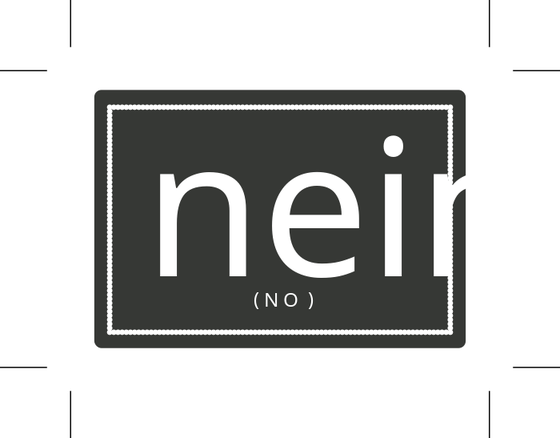
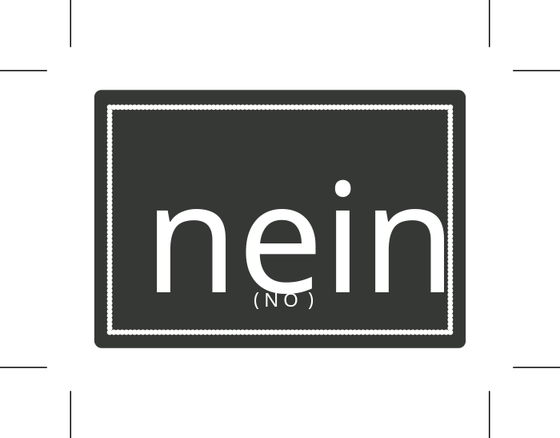
Fix clipped nein ballot + official card backs + phone flip-to-reveal
ballot-nein.png re-rendered from ballot.cards(nein).svg at 80% wordmark:
the SVG's Germania/Futura fonts are missing server-side, so the fallback
sans overflowed the card edge (ja! fit by luck at the same metrics).

New official reverses from the same Li rebuild (same render pipeline):
back-ballot.png (ballot.card.backcover) and back-tile.png
(policy.cards.backcover); roles reuse back-role.png.

Phones now flip to reveal: role starts facedown (team hidden until tap),
ballots flip facedown as the vote is played, policies start facedown
with tap-to-peek then tap-to-act; investigate result auto-flips.
Reduced-motion falls back to instant swaps. Board logic untouched.

Changed region(s): [[0.2732, 0.3858, 0.85, 0.6826], [0.6679, 0.2968, 0.7286, 0.3562]]

diff --git a/public/js/play.js b/public/js/play.js
@@ -15,6 +15,10 @@ let currentPlayers = {};
 let myRole = null;
 let myTeammates = [];
 let renderedForRound = {}; // avoid re-rendering the same one-shot UI repeatedly
+let roleRevealed = false; // tap-to-reveal: role starts facedown each session
+let revealedCards = {}; // "roundId:idx" / "peek:roundId:idx" -> true once flipped face-up
+const REDUCED_MOTION = typeof matchMedia === 'function' && matchMedia('(prefers-reduced-motion: reduce)').matches;
+const FLIP_MS = REDUCED_MOTION ? 0 : 550;
 
 async function main() {
   const user = await ensureSignedIn();
@@ -138,12 +142,30 @@ function render() {
 
 function renderIdle() {
   const roleLabel = myRole === 'hitler' ? 'Hitler' : myRole[0].toUpperCase() + myRole.slice(1);
+  const whosTurn = describeWhosTurn();
+  const roleImg = myRole === 'hitler' ? 'role-hitler' : `role-${myRole}`;
+  if (!roleRevealed) {
+    // Genuine reveal: back first (shoulder-surf safe), tap to flip. Team stays hidden until then.
+    el('main').innerHTML = `
+      <div class="flip-scene center tappable" id="roleScene">
+        <div class="flip-inner flipped" id="roleFlip">
+          <img class="role-img flip-face" src="img/${roleImg}.png" alt="${roleLabel}" />
+          <img class="role-img flip-face flip-back" src="img/back-role.png" alt="Your secret role — tap to reveal" />
+        </div>
+      </div>
+      <p class="role-caption">Tap to reveal your role</p>
+      <p>${whosTurn}</p>
+    `;
+    el('roleScene').addEventListener('click', () => {
+      el('roleFlip').classList.remove('flipped');
+      setTimeout(() => { roleRevealed = true; render(); }, FLIP_MS);
+    });
+    return;
+  }
   let teamHtml = '';
   if (myTeammates.length) {
     teamHtml = `<p class="muted">Your team: ${myTeammates.map(t => escapeHtml(t.name)).join(', ')}</p>`;
   }
-  const whosTurn = describeWhosTurn();
-  const roleImg = myRole === 'hitler' ? 'role-hitler' : `role-${myRole}`;
   el('main').innerHTML = `
     <img class="role-img" src="img/${roleImg}.png" alt="${roleLabel}" />
     <p class="role-caption">${roleLabel}</p>
@@ -200,8 +222,14 @@ function renderVoting() {
   el('main').innerHTML = `
     <h2>${nameOf(currentMeta.presidentUid)} nominates ${nameOf(currentMeta.chancellorCandidateUid)}</h2>
     <div class="vote-buttons">
-      <button class="ballot ja" id="jaBtn"><img src="img/ballot-ja.png" alt="Ja!" /></button>
-      <button class="ballot nein" id="neinBtn"><img src="img/ballot-nein.png" alt="Nein!" /></button>
+      <button class="ballot ja" id="jaBtn"><div class="flip-scene"><div class="flip-inner" id="jaFlip">
+        <img src="img/ballot-ja.png" alt="Ja!" class="flip-face" />
+        <img src="img/back-ballot.png" alt="" class="flip-face flip-back" />
+      </div></div></button>
+      <button class="ballot nein" id="neinBtn"><div class="flip-scene"><div class="flip-inner" id="neinFlip">
+        <img src="img/ballot-nein.png" alt="Nein!" class="flip-face" />
+        <img src="img/back-ballot.png" alt="" class="flip-face flip-back" />
+      </div></div></button>
     </div>
   `;
   const castVote = async choice => {
@@ -212,8 +240,15 @@ function renderVoting() {
     renderedForRound[key] = true;
     render();
   };
-  el('jaBtn').addEventListener('click', () => castVote('ja'));
-  el('neinBtn').addEventListener('click', () => castVote('nein'));
+  // Play the card facedown with a flip, then record the vote when it lands.
+  const playBallot = (choice, flipId, otherBtnId) => {
+    const other = el(otherBtnId);
+    if (other) other.setAttribute('disabled', '');
+    el(flipId).classList.add('flipped');
+    setTimeout(() => castVote(choice), FLIP_MS);
+  };
+  el('jaBtn').addEventListener('click', () => playBallot('ja', 'jaFlip', 'neinBtn'));
+  el('neinBtn').addEventListener('click', () => playBallot('nein', 'neinFlip', 'jaBtn'));
 }
 
 function tileArray(v) {
@@ -245,13 +280,14 @@ async function renderPresidentDraw() {
   }
   el('main').innerHTML = `
     <h2>Discard one policy</h2>
-    <p class="muted">The remaining two go to the Chancellor.</p>
+    <p class="muted">Tap a card to peek, tap again to discard it. The remaining two go to the Chancellor.</p>
     <div class="policy-choice">
-      ${tiles.map((t, i) => `<img class="policy-tile policy-tile-img" src="img/tile-${t}.png" alt="${t} policy" data-idx="${i}" />`).join('')}
+      ${tiles.map((t, i) => policyFlipTile(t, i, roundId)).join('')}
     </div>
   `;
   document.querySelectorAll('.policy-tile').forEach(elm => {
     elm.addEventListener('click', async () => {
+      if (!revealPolicyTile(elm, roundId)) return; // first tap just reveals
       const idx = Number(elm.dataset.idx);
       const discarded = tiles[idx];
       const remaining = tiles.filter((_, i) => i !== idx);
@@ -269,6 +305,28 @@ async function renderPresidentDraw() {
 function tileImg(t, i) {
   const idx = i === undefined ? '' : ` data-idx="${i}"`;
   return `<img class="policy-tile policy-tile-img" src="img/tile-${escapeHtml(t)}.png" alt="${escapeHtml(t)} policy"${idx} />`;
+}
+
+// Facedown policy card for tap-to-reveal. First tap flips it face-up (recorded
+// in revealedCards so re-renders keep it up); the caller's second tap acts.
+function policyFlipTile(t, i, revealKey) {
+  const revealed = revealedCards[`${revealKey}:${i}`] ? '' : ' flipped';
+  const idx = i === undefined ? '' : ` data-idx="${i}"`;
+  return `<div class="policy-tile flip-scene tappable"${idx}>
+    <div class="flip-inner${revealed}">
+      <img class="policy-tile-img flip-face" src="img/tile-${escapeHtml(t)}.png" alt="${escapeHtml(t)} policy" />
+      <img class="policy-tile-img flip-face flip-back" src="img/back-tile.png" alt="Facedown policy — tap to peek" />
+    </div>
+  </div>`;
+}
+
+function revealPolicyTile(elm, revealKey) {
+  const key = `${revealKey}:${elm.dataset.idx}`;
+  if (revealedCards[key]) return true; // already face-up: caller should act
+  revealedCards[key] = true;
+  const inner = elm.querySelector('.flip-inner');
+  if (inner) inner.classList.remove('flipped');
+  return false;
 }
 
 function renderChancellorHand() {
@@ -296,14 +354,15 @@ function renderChancellorHand() {
     const canVeto = currentMeta.vetoUnlocked === true && !requested;
     el('main').innerHTML = `
       <h2>${tiles.length > 1 ? 'Enact one policy' : 'Enact the policy'}</h2>
-      <p class="muted">${tiles.length > 1 ? 'The other is discarded, unseen.' : 'Only one tile remained in the supply.'}</p>
+      <p class="muted">${tiles.length > 1 ? 'Tap a card to peek, tap again to enact it. The other is discarded, unseen.' : 'Only one tile remained in the supply.'}</p>
       <div class="policy-choice">
-        ${tiles.map((t, i) => tileImg(t, i)).join('')}
+        ${tiles.map((t, i) => policyFlipTile(t, i, roundId)).join('')}
       </div>
       ${canVeto ? `<button id="vetoBtn">I wish to veto this agenda</button>` : ''}
     `;
     document.querySelectorAll('.policy-tile').forEach(elm => {
       elm.addEventListener('click', async () => {
+        if (!revealPolicyTile(elm, roundId)) return; // first tap just reveals
         const idx = Number(elm.dataset.idx);
         const enacted = tiles[idx];
         const rest = tiles.filter((_, i) => i !== idx);
@@ -400,7 +459,17 @@ function renderInvestigate() {
     const result = snap.val();
     if (!result) return;
     const box = document.getElementById('investigateResult');
-    if (box) box.innerHTML = `<img class="role-img" src="img/role-${escapeHtml(String(result))}.png" alt="${escapeHtml(String(result))}" />`;
+    if (box) {
+      // Auto-flip the loyalty card as it arrives.
+      box.innerHTML = `<div class="flip-scene center"><div class="flip-inner flipped" id="investigateFlip">
+        <img class="role-img flip-face" src="img/role-${escapeHtml(String(result))}.png" alt="${escapeHtml(String(result))}" />
+        <img class="role-img flip-face flip-back" src="img/back-role.png" alt="" />
+      </div></div>`;
+      requestAnimationFrame(() => requestAnimationFrame(() => {
+        const flip = document.getElementById('investigateFlip');
+        if (flip) flip.classList.remove('flipped');
+      }));
+    }
   });
 }
 
@@ -430,12 +499,15 @@ function renderPolicyPeek() {
     if (!tiles) return;
     el('main').innerHTML = `
       <h2 class="power-title"><img class="power-icon" src="img/icon-peek.png" alt="" />Policy Peek</h2>
-      <p class="muted">Top 3 deck tiles (only you see this). Tap Done to resume the game.</p>
+      <p class="muted">Top 3 deck tiles (only you see this). Tap each card to peek, then Done.</p>
       <div class="policy-choice">
-        ${(Array.isArray(tiles) ? tiles : Object.values(tiles)).map(t => `<img class="policy-tile-img" src="img/tile-${escapeHtml(t)}.png" alt="${escapeHtml(t)} policy" />`).join('')}
+        ${(Array.isArray(tiles) ? tiles : Object.values(tiles)).map((t, i) => policyFlipTile(t, i, `peek:${roundId}`)).join('')}
       </div>
       <button id="peekDoneBtn">Done</button>
     `;
+    document.querySelectorAll('.policy-tile').forEach(elm => {
+      elm.addEventListener('click', () => revealPolicyTile(elm, `peek:${roundId}`));
+    });
     document.getElementById('peekDoneBtn').addEventListener('click', async () => {
       await set(ref(db, `games/${room}/secret/executive/${roundId}/policyPeekSeen`), true);
       el('main').innerHTML = `<p class="muted">Resuming game...</p>`;

diff --git a/public/css/style.css b/public/css/style.css
@@ -260,3 +260,31 @@ img.policy-tile.policy-tile-img {
   .policy-tile-img { width: 84px; height: 118px; }
   .role-img { max-width: 200px; }
 }
+
+/* Card flip-to-reveal (phones). Front shows by default; .flipped shows the back. */
+.flip-scene { perspective: 900px; }
+.flip-scene.center { width: fit-content; margin: 0 auto; }
+.flip-scene.tappable { cursor: pointer; -webkit-tap-highlight-color: transparent; touch-action: manipulation; }
+.flip-inner { position: relative; transform-style: preserve-3d; transition: transform 0.55s ease; }
+.flip-inner.flipped { transform: rotateY(180deg); }
+.flip-face { display: block; backface-visibility: hidden; -webkit-backface-visibility: hidden; }
+img.flip-face.flip-back {
+  position: absolute;
+  inset: 0;
+  width: 100%;
+  height: 100%;
+  object-fit: cover;
+  transform: rotateY(180deg);
+}
+/* Policy tiles render as flip wrappers now: the card frame lives on the wrapper,
+   both faces fill it. (Plain img.policy-tile elsewhere keeps the old sizing.) */
+div.policy-tile.flip-scene { width: 100px; height: 140px; padding: 0; overflow: hidden; }
+div.policy-tile .flip-face { width: 100%; height: 100%; }
+
+@media (prefers-reduced-motion: reduce) {
+  .flip-inner { transition: none; }
+}
+
+@media (max-width: 700px) {
+  div.policy-tile.flip-scene { width: 84px; height: 118px; }
+}

diff --git a/public/ATTRIBUTION.md b/public/ATTRIBUTION.md
@@ -9,11 +9,16 @@ Non-commercial only. Share-alike. No app-store submission.
 
 - `role-liberal.png`, `role-fascist.png`, `role-hitler.png`
 - `tile-liberal.png`, `tile-fascist.png`
-- `ballot-ja.png`, `ballot-nein.png`
+- `ballot-ja.png`, `ballot-nein.png` (nein re-set at 80% so the fallback-sans
+  render fits its frame — the SVG's Germania/Futura fonts aren't installed
+  server-side, and the full-size fallback overflowed the card edge)
+- `back-role.png`, `back-ballot.png`, `back-tile.png` — official card reverses
+  from the same rebuild (`role.cards.backcover.svg`,
+  `ballot.card.backcover.svg`, `policy.cards.backcover.mirrored.blemish.svg`),
+  used for tap-to-flip reveals on phones
 - `board-liberal.png`, `board-fascist-56.png`, `board-fascist-78.png`,
   `board-fascist-910.png` (Fascist board auto-switches by player count:
   5–6 / 7–8 / 9–10, same brackets as the executive-power table)
-- `back-role.png`
 
 Re-rendered at 2x display size from Lee Yingtong Li's hand-traced colour SVG
 rebuild ("Editable colour SVG Secret Hitler for prepress",
@@ -31,3 +36,5 @@ Abstract symbols only; no historical insignia.
 
 - `logo.png`, `seal-liberal.png`: original files kept as-is, preserved in
   `img/original-2026-09-17/` along with the pre-replacement PNGs.
+  Phones start roles/policies facedown and flip to reveal; ballots flip
+  facedown as the vote is played.
